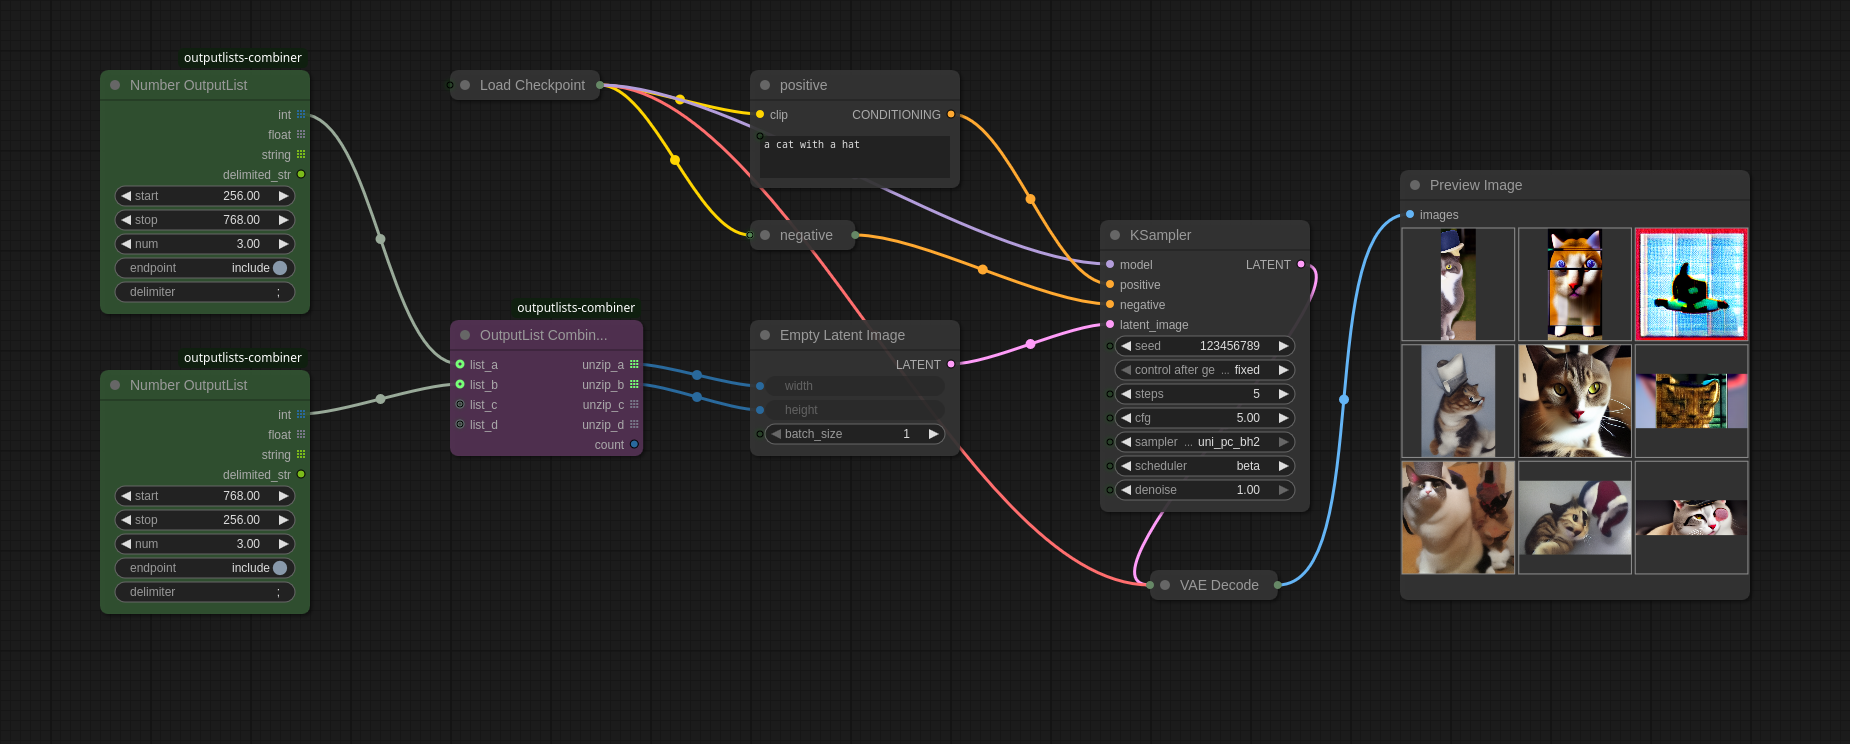
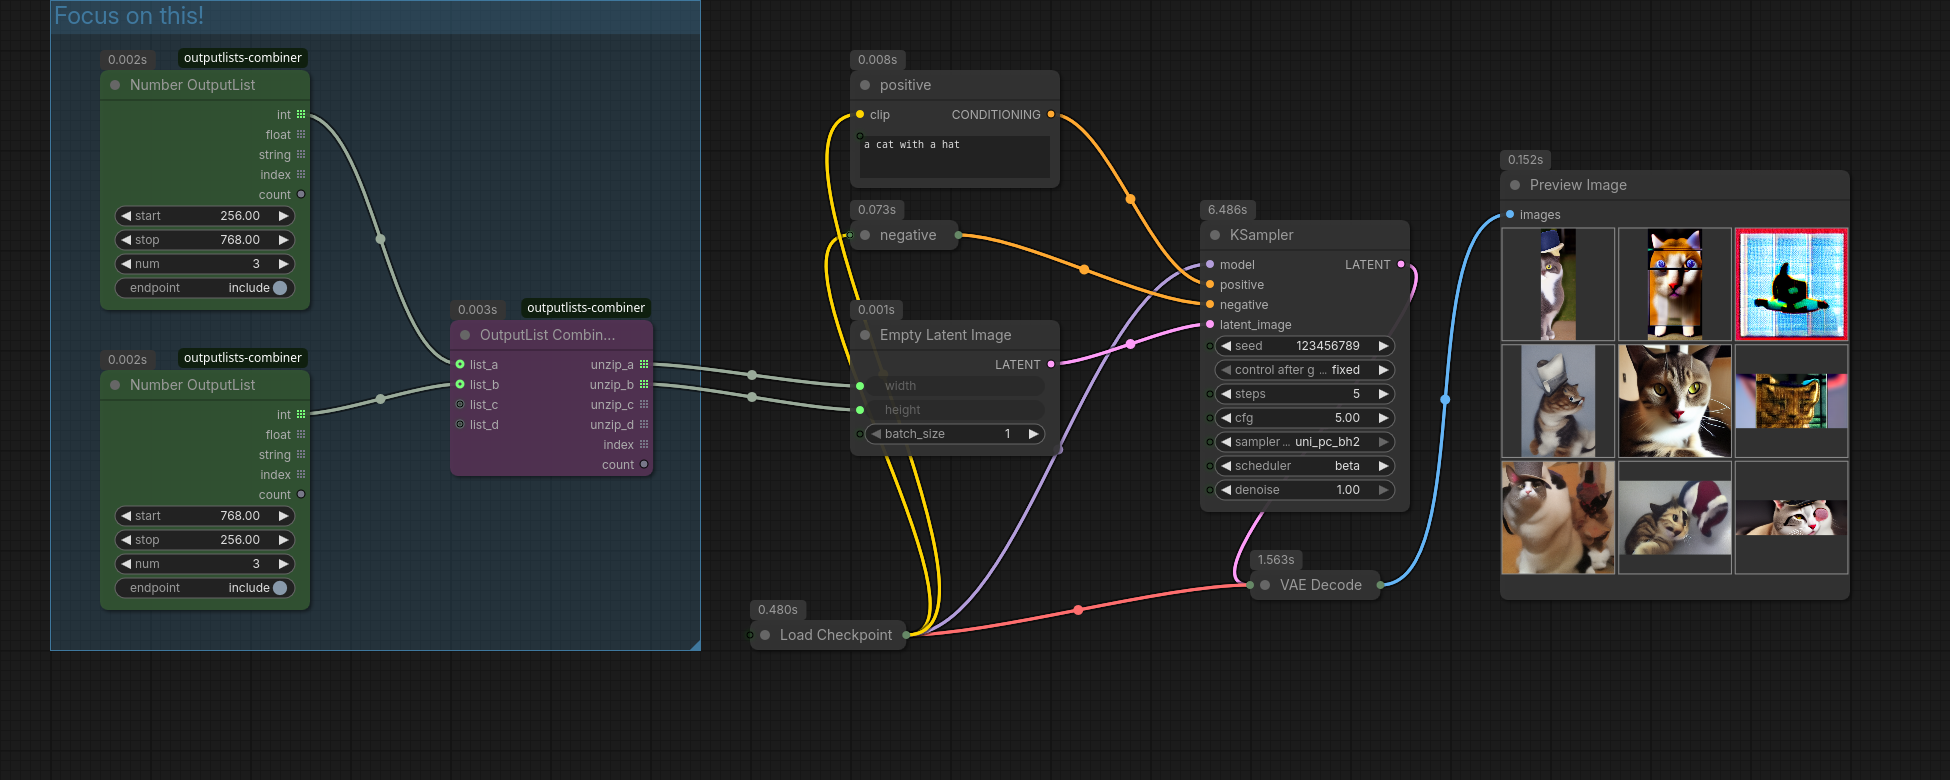
fixed JSON OutputList, change json from obj, updated all workflow examples, added new examples

diff --git a/web/outputlists_combiner.js b/web/outputlists_combiner.js
@@ -50,5 +50,15 @@ app.registerExtension(
 				}
 			}
 		}
-	}
+
+		if (node.comfyClass === "JSONOutputList")
+		{
+			node.onExecuted = function (ui)
+			{
+				const jsonWidget = node.widgets.find(w => w.name === "json")
+				if (!jsonWidget) { return }
+				jsonWidget.value = ui.obj
+			}
+		}
+	},
 })

diff --git a/src/outputlists_combiner/nodes.py b/src/outputlists_combiner/nodes.py
@@ -4,7 +4,7 @@ from json import dumps, loads
 import comfy.samplers
 import numpy
 from comfy_execution.graph_utils import GraphBuilder
-from fastnumbers import fast_float
+from fastnumbers import try_float
 from jsonpath_ng import parse as jsonpath_parse
 from nums_from_string import get_nums
 
@@ -32,7 +32,7 @@ value and index {OUTPUTLIST_NOTE}
 					{
 						"multiline"	: True,
 						"default"	: "",
-						"placeholder"	: "String separated with newlines. Try to connect inspect_combo with a COMBO input!",
+						"placeholder"	: "string separated with newlines. Try to connect inspect_combo with a COMBO input!",
 						"tooltip"	: "the string which will be separated. note that the string is trimmed of whitespace before splitting, and each item is again trimmed",
 					}),
 			},
@@ -43,8 +43,8 @@ value and index {OUTPUTLIST_NOTE}
 	OUTPUT_IS_LIST	=	(True	, True	, False	, False	)
 	OUTPUT_TOOLTIPS	= (
 		f"the values from the list. {OUTPUTLIST_NOTE}",
-		f"the number of items in the list. {OUTPUTLIST_NOTE}",
 		f"range of 0..count which can be used as an index. {OUTPUTLIST_NOTE}",
+		f"the number of items in the list. {OUTPUTLIST_NOTE}",
 		"a dummy output only used to pre-fill the list with values from a COMBO input and will automatically disconnect again",
 		)
 	FUNCTION	= "execute"
@@ -71,7 +71,7 @@ int, float, string and index {OUTPUTLIST_NOTE}.
 			"required": {
 				"start"	: ("FLOAT"	, { "default"	:	0,	"tooltip": "start value to generate the range from" }),
 				"stop"	: ("FLOAT"	, { "default"	:	10,	"tooltip": "end value. if endpoint=include this number will be included in the list" }),
-				"num"	: ("FLOAT"	, { "default"	:	10, "min": 1,	"tooltip": "the number of items in the list (not to be confused with a step)" }),
+				"num"	: ("INT"	, { "default"	:	10, "min": 1,	"tooltip": "the number of items in the list (not to be confused with a step)" }),
 				"endpoint"	: ("BOOLEAN"	, { "default"	:	False, "label_on": "include", "label_off": "exclude",	"tooltip": "decides if the stop value should be included or excluded in the items" }),
 				}
 		}
@@ -90,17 +90,19 @@ int, float, string and index {OUTPUTLIST_NOTE}.
 	CATEGORY	= "Utility"
 
 	def execute(self, start, stop, num, endpoint):
-		values	= list(numpy.linspace(start, stop, int(num), endpoint))
+		values	= list(numpy.linspace(start, stop, num, endpoint))
 		ints	= [int	(v) for v in values]
 		floats	= [float	(v) for v in values]
 		strs	= [str	(v) for v in values]
-		ret	= (ints, floats, strs, num)
+		index	= range(num)
+		ret	= (ints, floats, strs, index, num)
 		return ret
 
 class JSONOutputList:
 	DESCRIPTION = f"""Create a OutputList by extracting arrays or dictionaries from JSON objects.
 Uses JSONPath syntax to extract the values, see https://en.wikipedia.org/wiki/JSONPath .
 All matched values will be flattend into one list.
+You can also use this node to create objects from literal strings like `[1, 2, 3]`.
 key, value, int, float {OUTPUTLIST_NOTE}.
 """
 
@@ -109,17 +111,17 @@ key, value, int, float {OUTPUTLIST_NOTE}.
 		return {
 			"required":
 			{
-				"jsonpath"	: ("STRING", { "default": "$.dict", "tooltip": "the string to split the textfield values" }),
+				"jsonpath"	: ("STRING", { "default": "$.dict", "tooltip": "JSONPath used to extract the values" }),
 				"json"	: ("STRING",
 					{
 						"multiline"	: True,
 						"default"	: dumps(loads('{ "dict": { "a": 0.12, "b": 3.45, "c": 6.78 }, "arr": [0.12, 3.45, 6.78] }'), indent=4),
 						"placeholder"	: "object or JSON string",
-						"tooltip"	: "any object or a string which will be parsed as JSON",
+						"tooltip"	: "a string which will be parsed as JSON",
 					}),
 			},
 			"optional": {
-				"obj": (any, { "tooltip": "object of any type which will replace the JSON string" }),
+				"obj": (any, { "tooltip": "(optional) object of any type which will replace the JSON string" }),
 			}
 		}
 
@@ -136,26 +138,36 @@ key, value, int, float {OUTPUTLIST_NOTE}.
 		)
 	FUNCTION	= "execute"
 	CATEGORY	= "Utility"
+	OUTPUT_NODE	= True
 
 	def execute(self, jsonpath, json, obj = None):
 		# parse JSON
-		if isinstance(json, str):
-			try:
-				data = loads(json)
-			except Exception:
-				data = json	# treat raw string as value
+		if obj:
+			if isinstance(obj, str):
+				try:
+					data = loads(obj)
+				except Exception:
+					data = obj	# treat raw string as value
+			else:
+				data = obj
 		else:
-			data = json
+			if isinstance(json, str):
+				try:
+					data = loads(json)
+				except Exception:
+					data = json	# treat raw string as value
+			else:
+				data = json
 
 		# jsonpath
 		try:
 			expr	= jsonpath_parse(jsonpath)
 			matches	= expr.find(data)
 		except Exception:
-			return ([], [], [], [], 0, dumps([], indent=4))
+			return { "ui": { "obj": [dumps(obj, indent=4)] }, "result": ([], [], [], [], 0, "[]") }
 
 		if not matches:
-			return ([], [], [], [], 0, dumps([], indent=4))
+			return { "ui": { "obj": [dumps(obj, indent=4)] }, "result": ([], [], [], [], 0, "[]") }
 
 		# outputs
 		keys	= []
@@ -166,8 +178,7 @@ key, value, int, float {OUTPUTLIST_NOTE}.
 		debug	= [m.value for m in matches]
 
 		def append(key, value):
-			f = fast_float(value, default=0.0, allow_underscores=True)
-
+			f = try_float(value, allow_underscores=True, nan=0.0, inf=0.0, on_fail=0.0, on_type_error=0.0)
 			keys	.append(str(key))
 			values	.append(str(value))
 			floats	.append(f)
@@ -185,23 +196,24 @@ key, value, int, float {OUTPUTLIST_NOTE}.
 				for value in target:
 					append(count, value)
 					count += 1
-			else: # scalar
+			else: # scalar1
 				append(count, target)
 				count += 1
 
 		debug_json = dumps(debug, indent=4)
 
-		ret = (keys, values, ints, floats, count, debug_json)
+		result	= (keys, values, ints, floats, count, debug_json)
+		ret	=  { "ui": { "obj": [dumps(data, indent=4)] }, "result": result }
 		return ret
 
 class CombineOutputLists:
-	DESCRIPTION = f"""Takes up to 4 OutputLists, computes the Cartesian product and outputs each combination splitted up into their elements (unzip).
+	DESCRIPTION = f"""Takes up to 4 OutputLists, generates all combinations between them and emits each combination as separate items.
 Example: [1, 2, 3] x ["A", "B"] = [(1, "A"), (1, "B"), (2, "A"), (2, "B"), (3, "A"), (3, "B")]
 All the unzip values and index {OUTPUTLIST_NOTE}.
 All lists are optional and empty lists will be ignored.
 
-Technically empty lists will be replaced with units of None and they will emit None on the respective output.
-Example: [1, 2] x [] x ["A", B"] = [(1, None, "A"), (1, None, "B"), (2, None, "A"), (2, None, "B")]
+Technically it computes the Cartesian product and outputs each combination splitted up into their elements (unzip), whereas empty lists will be replaced with units of None and they will emit None on the respective output.
+Example: [1, 2] x [] x ["A", B"] x [] = [(1, None, "A", None), (1, None, "B", None), (2, None, "A", None), (2, None, "B", None)]
 """
 
 	@classmethod
@@ -210,10 +222,10 @@ Example: [1, 2] x [] x ["A", B"] = [(1, None, "A"), (1, None, "B"), (2, None, "A
 			"required": {
 			},
 			"optional": {
-				"list_a"	: (any, { "tooltip": "ideally connected to a node with OUTPUT_IS_LIST=True indicated by the symbol 𝌠" }),
-				"list_b"	: (any, { "tooltip": "ideally connected to a node with OUTPUT_IS_LIST=True indicated by the symbol 𝌠" }),
-				"list_c"	: (any, { "tooltip": "ideally connected to a node with OUTPUT_IS_LIST=True indicated by the symbol 𝌠" }),
-				"list_d"	: (any, { "tooltip": "ideally connected to a node with OUTPUT_IS_LIST=True indicated by the symbol 𝌠" }),
+				"list_a"	: (any, { "tooltip": "(optional) ideally connected to a node with OUTPUT_IS_LIST=True indicated by the symbol 𝌠" }),
+				"list_b"	: (any, { "tooltip": "(optional) ideally connected to a node with OUTPUT_IS_LIST=True indicated by the symbol 𝌠" }),
+				"list_c"	: (any, { "tooltip": "(optional) ideally connected to a node with OUTPUT_IS_LIST=True indicated by the symbol 𝌠" }),
+				"list_d"	: (any, { "tooltip": "(optional) ideally connected to a node with OUTPUT_IS_LIST=True indicated by the symbol 𝌠" }),
 			}
 		}
 
@@ -242,8 +254,8 @@ Example: [1, 2] x [] x ["A", B"] = [(1, None, "A"), (1, None, "B"), (2, None, "A
 		return ret
 
 class FormattedString:
-	DESCRIPTION = """Uses python `str.format()` internally, see https://docs.python.org/3/library/string.html#format-string-syntax .
-Use `{a:.2f}` to round off a float to 2 decimals.
+	DESCRIPTION = """Uses python `str.format()` internally, see https://docs.python.org/3/library/string.html#format-string-syntax
+Use `{a:.2f}` to round off a float to 2 decimals
 Use `{a:05d}` to pad up to 5 leading zeros to fit with comfys filename suffix `ComfyUI_00001_.png`
 If you want to write `{ }` within your strings (e.g. for JSONs) you have to double them like so: `{{ }}`
 """
@@ -254,14 +266,15 @@ If you want to write `{ }` within your strings (e.g. for JSONs) you have to doub
 			"required": {
 				"fstring": ("STRING", {
 					"multiline"	: True,
-					"default"	: "{a}_{b}_{c}_{d}"
+					"default"	: "{a}_{b}_{c}_{d}",
+					"tooltip"	: FormattedString.DESCRIPTION,
 					}),
 				},
 			"optional": {
-				"a"	: (any, { "tooltip": FormattedString.DESCRIPTION }),
-				"b"	: (any, { "tooltip": FormattedString.DESCRIPTION }),
-				"c"	: (any, { "tooltip": FormattedString.DESCRIPTION }),
-				"d"	: (any, { "tooltip": FormattedString.DESCRIPTION }),
+				"a"	: (any, { "tooltip": "(optional) value that will be converted to string with the {a} placeholder" }),
+				"b"	: (any, { "tooltip": "(optional) value that will be converted to string with the {b} placeholder" }),
+				"c"	: (any, { "tooltip": "(optional) value that will be converted to string with the {c} placeholder" }),
+				"d"	: (any, { "tooltip": "(optional) value that will be converted to string with the {d} placeholder" }),
 				}
 		}
 
